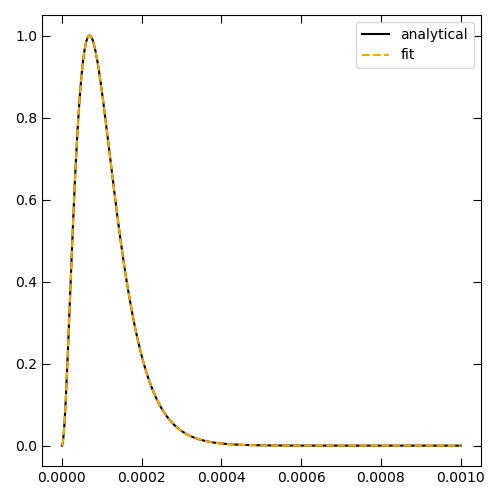
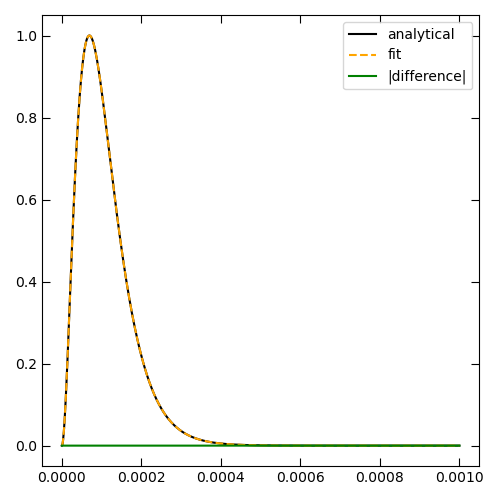
edit insights plot

diff --git a/insights.py b/insights.py
@@ -1,6 +1,7 @@
 """Script to show how the plots in the supplementary information were made."""
 import matplotlib.pyplot as plt
 import numpy as np
+from tqdm import tqdm
 from fitting import find_best_fit_params
 from de_utilities import triplet_decay_solution
 
@@ -67,7 +68,7 @@ def main():
     ax.clear()
 
     # try a couple amplitude factors (Figure S2)
-    factors = [1.5, 1.0, 0.5]
+    factors = [1.5, 1, 0.5]
     colors = ["purple", "orange", "red"]
     for factor, color in zip(factors, colors):
         analytical_intensity_i = factor * analytical_intensity
@@ -77,6 +78,7 @@ def main():
         # find fit_a and fit_b from the best-fit parameters
         fit_a = k_2_conc_a
         fit_b = 2 * k_4
+        print(fit_a * fit_b)
         fit_intensity_i = triplet_decay_solution(epsilon=epsilon)(times, k_2_conc_a, k_ph, k_3, k_4)
         ax.plot(times, analytical_intensity_i, color="k", linestyle="-")
         # normalize the fits so they line up with the analytical things
@@ -87,6 +89,30 @@ def main():
     fig.tight_layout()
     plt.savefig("images/S2.png")
     ax.clear()
+
+    # is this actually invariant?
+    # yes, seems like it was, we didn't include this plot in the paper
+    # start = 1
+    # end = 100
+    # num = 1000
+    # factors = np.linspace(start, end, num=num)
+    # products = np.zeros_like(factors)
+    # for i, factor in tqdm(enumerate(factors)):
+    #     analytical_intensity_i = factor * analytical_intensity
+    #     k_2_conc_a, k_ph, k_3, k_4 = find_best_fit_params(
+    #         times, analytical_intensity_i,
+    #         initial_guesses=[a, 0, 0, b/2], epsilon=epsilon)
+    #     # find fit_a and fit_b from the best-fit parameters
+    #     fit_a = k_2_conc_a
+    #     fit_b = 2 * k_4
+    #     products[i] = fit_a * fit_b
+    # ax.plot(factors, products, "k")
+    # ax.set_xlabel("factor")
+    # ax.set_ylabel("ab product")
+    # fig.tight_layout()
+    # plt.savefig(f"images/ab_products_{start}_{end}_{num}.png")
+    # ax.clear()
+
 
     # sub-case 2 where y = k_2_conc_a/(k_ph-k_3) * (e^{-k_3 t} - e^{-k_ph t}) (Figure S3)
     t_min = 0
@@ -107,6 +133,9 @@ def main():
             color="k", linestyle="-", label="analytical")
     ax.plot(times, fit_intensity_case2/np.max(fit_intensity_case2),
             color="orange", linestyle="--", label="fit")
+    ax.plot(times, np.abs(analytical_intensity_case2/np.max(analytical_intensity_case2)
+                          - fit_intensity_case2/np.max(fit_intensity_case2)),
+            color="green", linestyle="-", label="|difference|")
     ax.legend(loc="best")
     fig.tight_layout()
     plt.savefig("images/S3.png")
